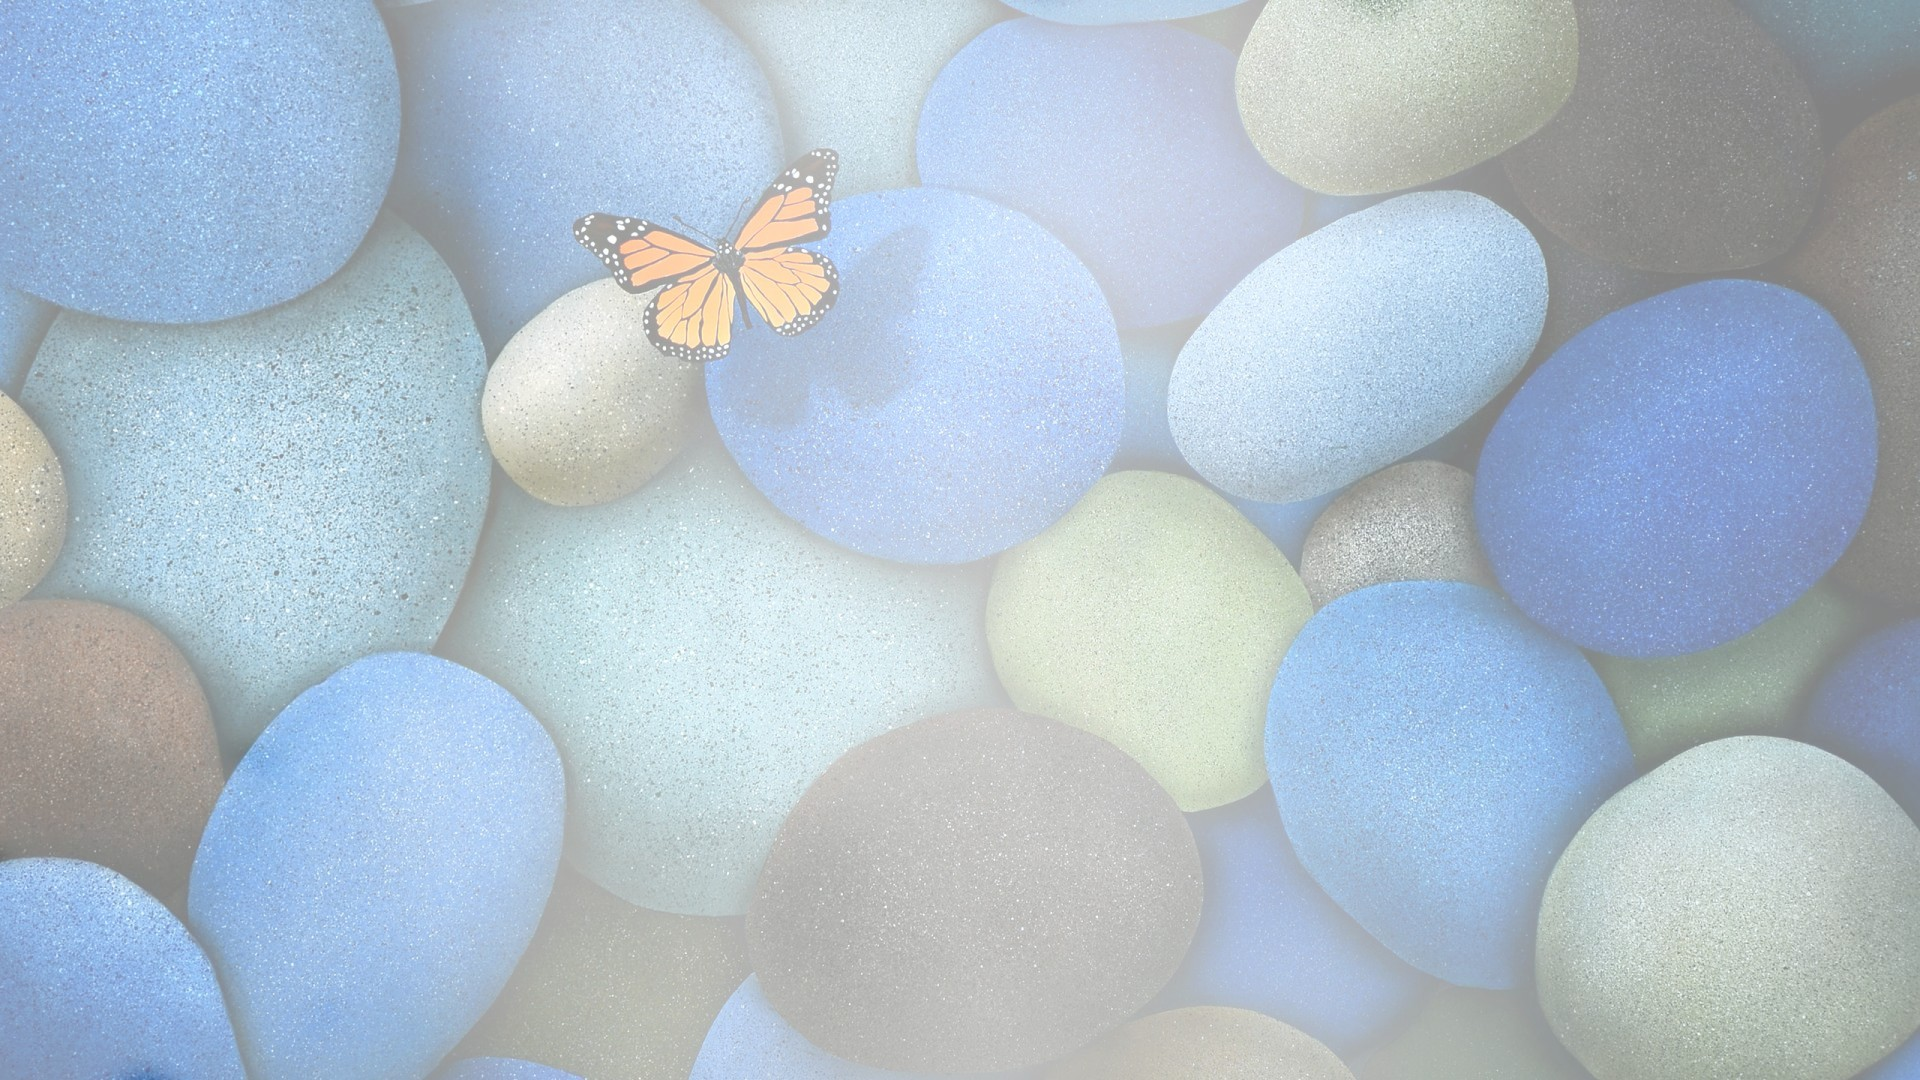
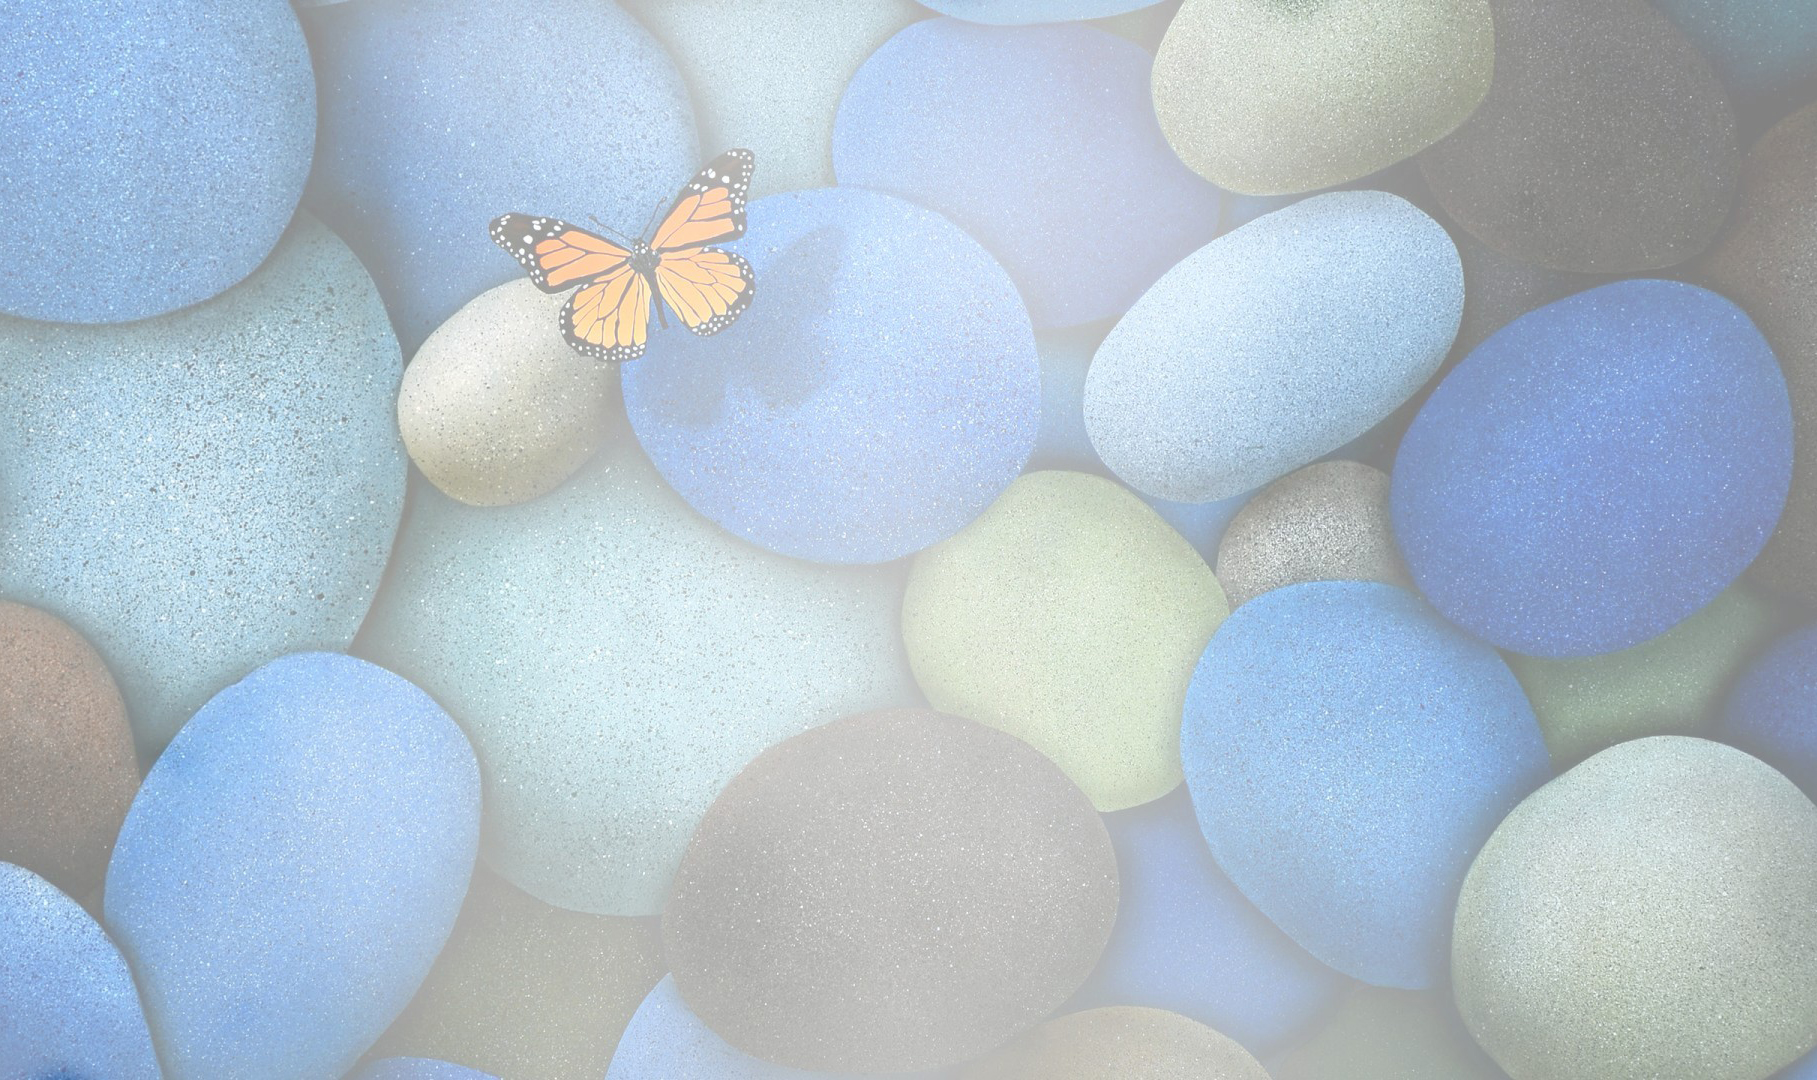
CssPlanteado

diff --git a/src/frontend/src/Components/Messages/Messages.jsx b/src/frontend/src/Components/Messages/Messages.jsx
@@ -4,24 +4,24 @@ import { useEffect, useState, useRef } from "react";
 import { getMessages } from "../../apitools.mjs";
 
 // para actualizar mensajes, método GET
-function Messages ({id, password}) {
-    const [ messages, setMessages] = useState("");
+function Messages({ id, password }) {
+    const [messages, setMessages] = useState("");
 
     function updateMessages() {
         getMessages(id, password, setMessages);
     }
     // método setInterval() para actualizar cada segundo
     useEffect(
-        ()=>{
-            setInterval(updateMessages, 1000)},
+        () => {
+            setInterval(updateMessages, 1000)
+        },
         []
     );
     return (
-        <div className='actualizarMensajes'>
-            <h1 className='sinMargin'>Mensajes del Chat</h1>
-            <div>
-                <p>{"Mensajes: " + messages}</p>
-            </div>
+        <div className='actualizarMensajes margin-left flex flex-wrap align-content'>
+            <h1>Mensajes del Chat</h1>
+            <h3 className='bold margin-bottom'>Mensajes: </h3>
+            <p className='margin-top'>{messages}</p>
         </div>
     );
 }
@@ -30,7 +30,6 @@ export default Messages;
 
 
 
-       
 
 
 
@@ -50,7 +49,8 @@ export default Messages;
 
 
 
- 
+
+
 
 
 

diff --git a/src/frontend/src/App.css b/src/frontend/src/App.css
@@ -2,26 +2,47 @@
     background-image: url("./beautiful.jpg");
     background-repeat: no-repeat;
     background-size: cover;
+    background-attachment: fixed;
     background-position: center;
-    height: 100vh;
-    margin-top: 0;
-    padding-top: 30px;
+    height: 120vh;
 }
 
 .grid {
     display: grid;
-    align-content: stretch;
-    justify-items: center;
+    grid-template-rows: 1fr 1.5fr 2fr;
 }
 
 .flex {
     display: flex;
     flex-direction: column;
-    justify-content: flex-start;
 }
 
-.sinMargin {
+.flex-wrap {
+    flex-wrap: wrap;
+}
+
+.align-content {
+    align-content: flex-start;
+}
+
+.align-items {
+    align-items: center;
+}
+
+.margin-top {
     margin-top: 0;
+}
+
+.margin-left {
+    margin-left: 7%;
+}
+
+.margin-bottom {
+    margin-bottom: 0;
+}
+
+.marginEntrar {
+    margin-bottom: 30px;
 }
 
 .colorBlue {
@@ -35,3 +56,22 @@
 .em {
     font-size: 1em;
 }
+
+.buttonEntrar {
+    background: radial-gradient( rgb(250, 218, 90), rgb(252, 230, 140), rgb(252, 230, 140), rgb(253, 244, 201));
+}
+
+.heightTextarea {
+    height: 7vh;
+}
+
+.widthTextarea {
+    min-width: 20vw;
+   
+}
+
+.fontTextarea {
+    font-size: 1.3em;
+}
+
+

diff --git a/src/frontend/src/Components/Login/Login.jsx b/src/frontend/src/Components/Login/Login.jsx
@@ -7,15 +7,17 @@ function Login() {
 
 
     return (
-        <div className='logearte flex'>
+        <div className='logearte flex align-items'>
             <h1>Logeate para entrar</h1>
-            <input className='em' type="text" id="inputUser" placeholder='Usuario' />
-            <br />
-            <br />
-            <input className='em' type="text" id="inputPassword" placeholder='Contraseña' />
-            <br />
-            <br />
-            <button className='clikButton bold em'>Entrar</button>
+            <div className='flex '>
+                <input className='em' type="text" id="inputUser" placeholder='Usuario' />
+                <br />
+                <br />
+                <input className='em' type="text" id="inputPassword" placeholder='Contraseña' />
+                <br />
+                <br />
+                <button className='clikButton bold em marginEntrar buttonEntrar'>Entrar</button>
+            </div>
         </div>
     );
 }
@@ -25,7 +27,6 @@ export default Login;
 
 
 
-       
 
 
 
@@ -45,7 +46,8 @@ export default Login;
 
 
 
- 
+
+
 
 
 

diff --git a/src/frontend/src/App.js b/src/frontend/src/App.js
@@ -1,6 +1,6 @@
 import Login from './Components/Login/Login';
 import Messages from './Components/Messages/Messages';
-import NewMessage from './Components/NewMessage/NewMessage'; 
+import NewMessage from './Components/NewMessage/NewMessage';
 import './App.css';
 
 
@@ -9,11 +9,13 @@ function App() {
   return (
     <>
 
-    <body className='bg-fondo grid'>
-    <Login/>
-    <Messages id = "1649145553851" password = "abc123"/>
-    <NewMessage/>
-    </body>
+      <body className='bg-fondo margin-top'>
+        <div className='grid'>
+          <Login />
+          <Messages id="1649145553851" password="abc123" />
+          <NewMessage />
+        </div>
+      </body>
 
     </>
   );

diff --git a/src/frontend/src/Components/NewMessage/NewMessage.jsx b/src/frontend/src/Components/NewMessage/NewMessage.jsx
@@ -7,10 +7,11 @@ function NewMessage ({id, password}) {
     const [ newMessage, setnewMessage] = useState("");
 
     return (
-        <div className='NuevoMensaje colorBlue'> 
-        <h1 className='sinMargin'>Envia un mensaje</h1>
-        <textarea></textarea>
-        <p>{"Tu mensaje: " + newMessage}</p>
+        <div className='NuevoMensaje margin-left flex flex-wrap align-content colorBlue'> 
+        <h1>Envia un mensaje</h1>
+        <textarea className='fontTextarea colorBlue heightTextarea widthTextarea'></textarea>
+        <h3 className='bold margin-bottom'>Tu mensaje: </h3>
+        <p className='margin-top'>{newMessage}</p>
         </div>
     );
 }
